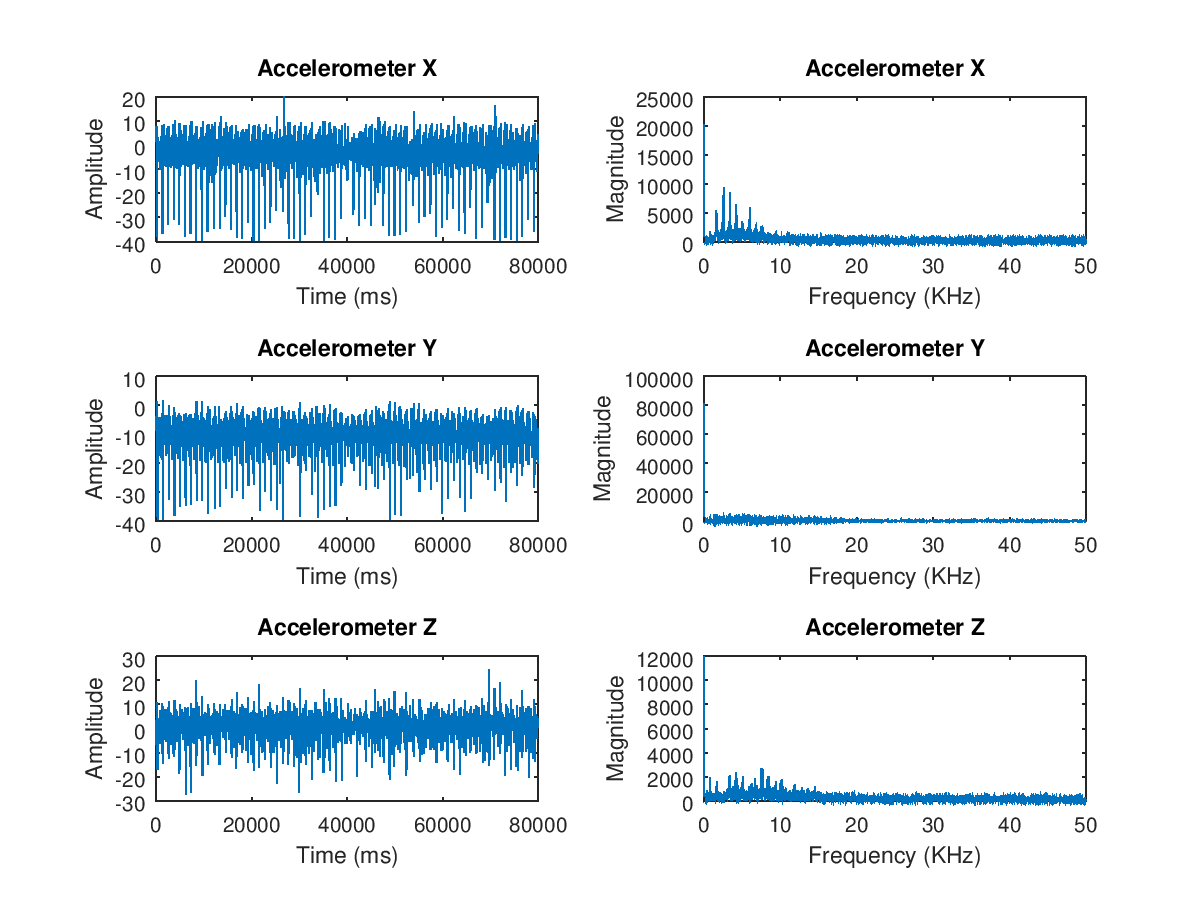
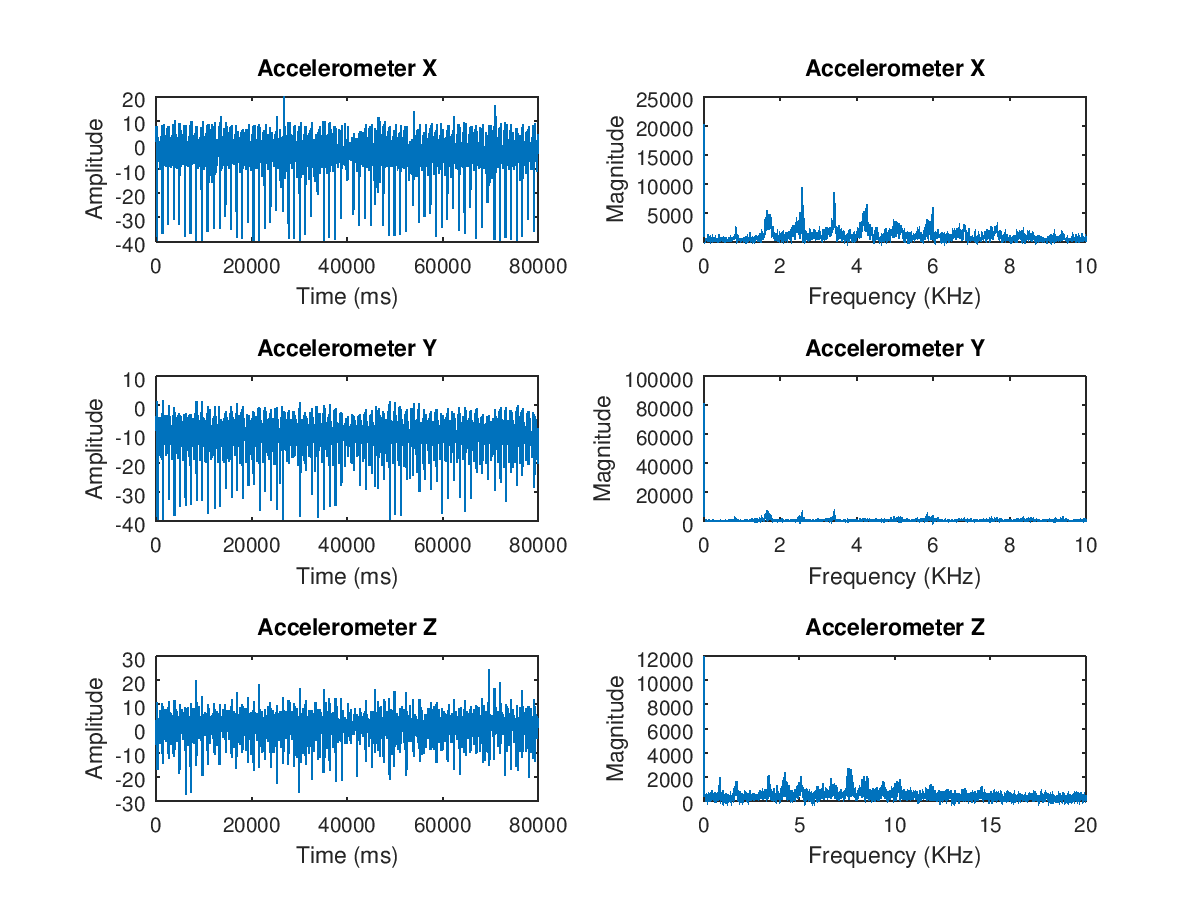
more files

diff --git a/Project 2/Walk/plotmag.m b/Project 2/Walk/plotmag.m
@@ -1,0 +1,88 @@
+textfile = "1.csv"
+
+lowerLimit = 30000;
+upperLimit = 110000;
+Fs = 100;
+
+
+[csv_time, csv_accel_x, csv_accel_y, csv_accel_z, csv_grav_x, csv_grav_y, csv_grav_z, csv_linaccel_x, csv_linaccel_y, csv_linaccel_z, csv_gyro_x, csv_gyro_y, csv_gyro_z, csv_magfield_x, csv_magfield_y, csv_magfield_z, csv_orientation_x, csv_orientation_y, csv_orientation_z] = textread(textfile, '%d %f %f %f %f %f %f %f %f %f %f %f %f %f %f %f %f %f %f', 'delimiter', ',');
+
+[time_accel, signal_accel_x] = clipSignal(csv_time, csv_accel_x, lowerLimit, upperLimit);
+[time_accel, signal_accel_y] = clipSignal(csv_time, csv_accel_y, lowerLimit, upperLimit);
+[time_accel, signal_accel_z] = clipSignal(csv_time, csv_accel_z, lowerLimit, upperLimit);
+
+[time_grav, signal_grav_x] = clipSignal(csv_time, csv_grav_x, lowerLimit, upperLimit);
+[time_grav, signal_grav_y] = clipSignal(csv_time, csv_grav_y, lowerLimit, upperLimit);
+[time_grav, signal_grav_z] = clipSignal(csv_time, csv_grav_z, lowerLimit, upperLimit);
+
+[time_linaccel, signal_linaccel_x] = clipSignal(csv_time, csv_linaccel_x, lowerLimit, upperLimit);
+[time_linaccel, signal_linaccel_y] = clipSignal(csv_time, csv_linaccel_y, lowerLimit, upperLimit);
+[time_linaccel, signal_linaccel_z] = clipSignal(csv_time, csv_linaccel_z, lowerLimit, upperLimit);
+
+[time_gyro, signal_gyro_x] = clipSignal(csv_time, csv_gyro_x, lowerLimit, upperLimit);
+[time_gyro, signal_gyro_y] = clipSignal(csv_time, csv_gyro_y, lowerLimit, upperLimit);
+[time_gyro, signal_gyro_z] = clipSignal(csv_time, csv_gyro_z, lowerLimit, upperLimit);
+
+[time_magfield, signal_magfield_x] = clipSignal(csv_time, csv_magfield_x, lowerLimit, upperLimit);
+[time_magfield, signal_magfield_y] = clipSignal(csv_time, csv_magfield_y, lowerLimit, upperLimit);
+[time_magfield, signal_magfield_z] = clipSignal(csv_time, csv_magfield_z, lowerLimit, upperLimit);
+
+[time_orientation, signal_orientation_x] = clipSignal(csv_time, csv_orientation_x, lowerLimit, upperLimit);
+[time_orientation, signal_orientation_y] = clipSignal(csv_time, csv_orientation_y, lowerLimit, upperLimit);
+[time_orientation, signal_orientation_z] = clipSignal(csv_time, csv_orientation_z, lowerLimit, upperLimit);
+
+
+[time_accel, angle_accel_x, angle_accel_y, angle_accel_z, mag_accel] = getAngles(time_accel, signal_accel_x, signal_accel_y, signal_accel_z);
+
+plot(time_accel, mag_accel);
+xlabel("Time (ms)");
+ylabel("Magnitude");
+title("Magnitude Acceleration");
+
+print -dpng mag_accel_1.png;
+
+plot(time_accel, angle_accel_x);
+ylabel("Angle (rad)");
+xlabel("Time (ms)");
+title("Acceleration x angle");
+
+print -dpng angle_accel_x.png
+
+[freq_angle_accel_x, mag_fft_angle_accel_x] = getFFT(angle_accel_x, Fs);
+
+plot(freq_angle_accel_x, mag_fft_angle_accel_x);
+xlim([0, 10]);
+ylim([0, 800]);
+print -dpng fft_angle_accel_x.png
+
+
+
+plot(time_accel, angle_accel_x);
+ylabel("Angle (rad)");
+xlabel("Time (ms)");
+title("Acceleration x angle");
+
+print -dpng angle_accel_x.png
+
+[freq_angle_accel_x, mag_fft_angle_accel_x] = getFFT(angle_accel_x, Fs);
+
+plot(freq_angle_accel_x, mag_fft_angle_accel_x);
+xlim([0, 10]);
+ylim([0, 800]);
+print -dpng fft_angle_accel_x.png
+
+% plot(time_accel, angle_accel_y);
+% ylabel("Angle (rad)");
+% xlabel("Time (ms)");
+% title("Acceleration y angle");
+
+% plot(time_accel, angle_accel_x);
+% ylabel("Angle (rad)");
+% xlabel("Time (ms)");
+% title("Acceleration z angle");
+
+
+
+
+
+

diff --git a/Project 2/Walk/plotAccel.m b/Project 2/Walk/plotAccel.m
@@ -4,6 +4,10 @@ lowerLimit = 30000;
 upperLimit = 110000;
 Fs = 100;
 
+
+freqgraphll = 0;
+freqgraphul = 10;
+
 [csv_time, csv_accel_x, csv_accel_y, csv_accel_z, csv_grav_x, csv_grav_y, csv_grav_z, csv_linaccel_x, csv_linaccel_y, csv_linaccel_z, csv_gyro_x, csv_gyro_y, csv_gyro_z, csv_magfield_x, csv_magfield_y, csv_magfield_z, csv_orientation_x, csv_orientation_y, csv_orientation_z] = textread(textfile, '%d %f %f %f %f %f %f %f %f %f %f %f %f %f %f %f %f %f %f', 'delimiter', ',');
 
 [time, accel_x, freq, mag] = analyse(csv_time, csv_accel_x, lowerLimit, upperLimit, Fs);
@@ -19,7 +23,7 @@ Fs = 100;
 	title("Accelerometer X");
 	xlabel("Frequency (KHz)");
 	ylabel("Magnitude")
-	% xlim([0, 10]);
+	xlim([freqgraphll, freqgraphul]);
 
 
 [time, accel_y, freq, mag] = analyse(csv_time, csv_accel_y, lowerLimit, upperLimit, Fs);
@@ -35,7 +39,7 @@ Fs = 100;
 	title("Accelerometer Y");
 	xlabel("Frequency (KHz)");
 	ylabel("Magnitude")
-	% xlim([0, 10]);
+	xlim([freqgraphll, freqgraphul]);
 
 
 [time, accel_z, freq, mag] = analyse(csv_time, csv_accel_z, lowerLimit, upperLimit, Fs);
@@ -51,7 +55,7 @@ Fs = 100;
 	title("Accelerometer Z");
 	xlabel("Frequency (KHz)");
 	ylabel("Magnitude")
-	% xlim([0, 10]);
+	xlim([freqgraphll, 2*freqgraphul]);
 
 
 print -dpng accel1.png
@@ -77,7 +81,7 @@ Fs = 100;
 	title("Accelerometer X");
 	xlabel("Frequency (KHz)");
 	ylabel("Magnitude")
-	% xlim([0, 10]);
+	xlim([freqgraphll, freqgraphul]);
 
 
 [time, accel_y, freq, mag] = analyse(csv_time, csv_accel_y, lowerLimit, upperLimit, Fs);
@@ -93,7 +97,7 @@ Fs = 100;
 	title("Accelerometer Y");
 	xlabel("Frequency (KHz)");
 	ylabel("Magnitude")
-	% xlim([0, 10]);
+	xlim([freqgraphll, freqgraphul]);
 
 
 [time, accel_z, freq, mag] = analyse(csv_time, csv_accel_z, lowerLimit, upperLimit, Fs);
@@ -109,6 +113,6 @@ Fs = 100;
 	title("Accelerometer Z");
 	xlabel("Frequency (KHz)");
 	ylabel("Magnitude")
-	% xlim([0, 10]);
+	xlim([freqgraphll, 2*freqgraphul]);
 
 print -dpng accel2.png

diff --git a/Project 2/Walk/getAngles.m b/Project 2/Walk/getAngles.m
@@ -1,0 +1,14 @@
+%% getAngles: get directional angles of a 3d vector
+function [angle_time, angle_x, angle_y, angle_z, mag_sig] = getAngles(sig_time, sig_x, sig_y, sig_z)
+	mag_sig = (sig_x.^2 + sig_y.^2 + sig_z.^2).^0.5;
+	
+	dc_x = sig_x./mag_sig;
+	dc_y = sig_y./mag_sig;
+	dc_z = sig_z./mag_sig;
+
+	angle_x = acos(dc_x);
+	angle_y = acos(dc_y);
+	angle_z = acos(dc_z);
+
+	angle_time = sig_time;
+end
